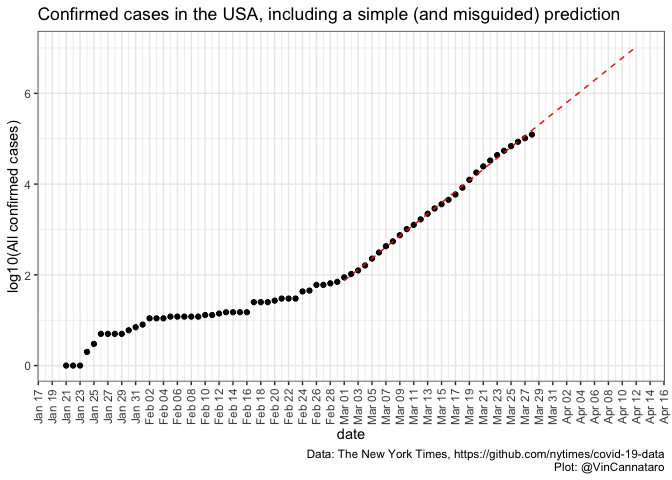
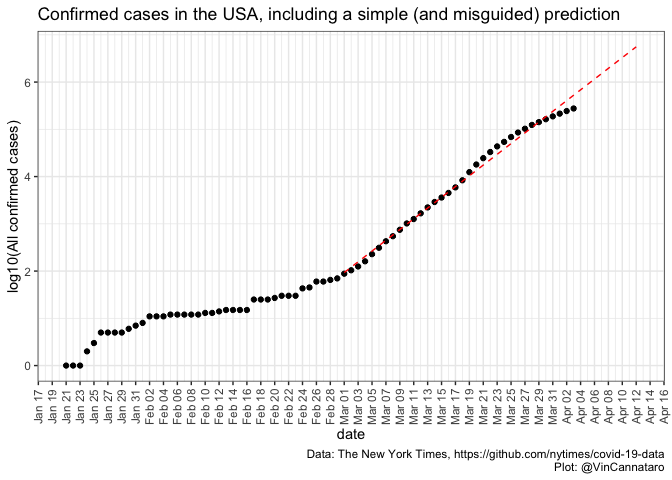
removed fit, updated data

diff --git a/COVID19_initial_data_analyses_CannataroV.md b/COVID19_initial_data_analyses_CannataroV.md
@@ -1,7 +1,7 @@
 COVID19 data exploration
 ================
 Vincent L. Cannataro
-last update 2020-March-29
+last update 2020-April-05
 
 Data obtained from curated Johns Hopkins University Center for Systems
 Science and Engineering database here:
@@ -11,66 +11,10 @@ York Times, based on reports from state and local health agencies
 
 # Current USA confirmed cases
 
-It looks like the total number of confirmed cases in the USA is
-currently growing
-exponentially.
+The total number of cases in the USA is rapidly
+increasing.
 
 ![](COVID19_initial_data_analyses_CannataroV_files/figure-gfm/unnamed-chunk-1-1.png)<!-- -->![](COVID19_initial_data_analyses_CannataroV_files/figure-gfm/unnamed-chunk-1-2.png)<!-- -->
-
-Indeed, if we pull out the data from 2020-03-01 until the current date,
-and fit a linear model to the log10(y) ~ x,
-
-``` r
-start_date
-```
-
-    ## [1] "2020-03-01"
-
-``` r
-fit_lm_exp <- lm(formula = log10(all_cases) ~ date, 
-                 data = subset(US_data,date>start_date))
-
-# summary(fit_lm_exp)$r.squared # removed r.squared because 
-# it is not a correct statistic on this time series data 
-# https://twitter.com/vsbuffalo/status/1239233074203746304 
-```
-
-<!-- We find an $R^2$ value of 0.9982 -->
-
-# Fitting into the future, assuming\* exponential growth continues
-
-\* of course, exponential growth never continues indefinitely in
-population models. Eventually, you will either run out of new
-susceptible people to infect. Or, we can intervene in disease spread,
-and deviate from this continued growth.
-
-But, let’s naïvely assume exponential growth continues. What would
-happen to the number of confirmed cases over time?
-
-We can use our fit to the recent data generated above to predict into
-the future.
-
-``` r
-end_date
-```
-
-    ## [1] "2020-04-12"
-
-``` r
-# fitting into the future 
-future_predictions <- data.frame(Date = seq(start_date,end_date,by = "1 day"))
-
-# future_predictions$log10_count <- predict(fit_lm_exp,newdata = future_predictions)
-future_predictions$log10_count <- (as.numeric(future_predictions$Date) * fit_lm_exp$coefficients[2]) + fit_lm_exp$coefficients[1]
-```
-
-![](COVID19_initial_data_analyses_CannataroV_files/figure-gfm/fitting%20into%20the%20future%20plot-1.png)<!-- -->
-
-Keep in mind, that the axis above is on a log10 scale, meaning that
-\(6\) on the axis is really \(1000000\)
-
-*Let’s do everything we can do deviate from this
-fit\!*
 
 # By State
 
@@ -145,8 +89,14 @@ The total number of confirmed cases in the USA by date:
 | 2020-03-21 |      24532 |
 | 2020-03-22 |      33061 |
 | 2020-03-23 |      43499 |
-| 2020-03-24 |      54168 |
+| 2020-03-24 |      54198 |
 | 2020-03-25 |      68775 |
 | 2020-03-26 |      85615 |
 | 2020-03-27 |     102913 |
-| 2020-03-28 |     123618 |
+| 2020-03-28 |     123831 |
+| 2020-03-29 |     142178 |
+| 2020-03-30 |     163672 |
+| 2020-03-31 |     187962 |
+| 2020-04-01 |     214760 |
+| 2020-04-02 |     243719 |
+| 2020-04-03 |     276091 |
